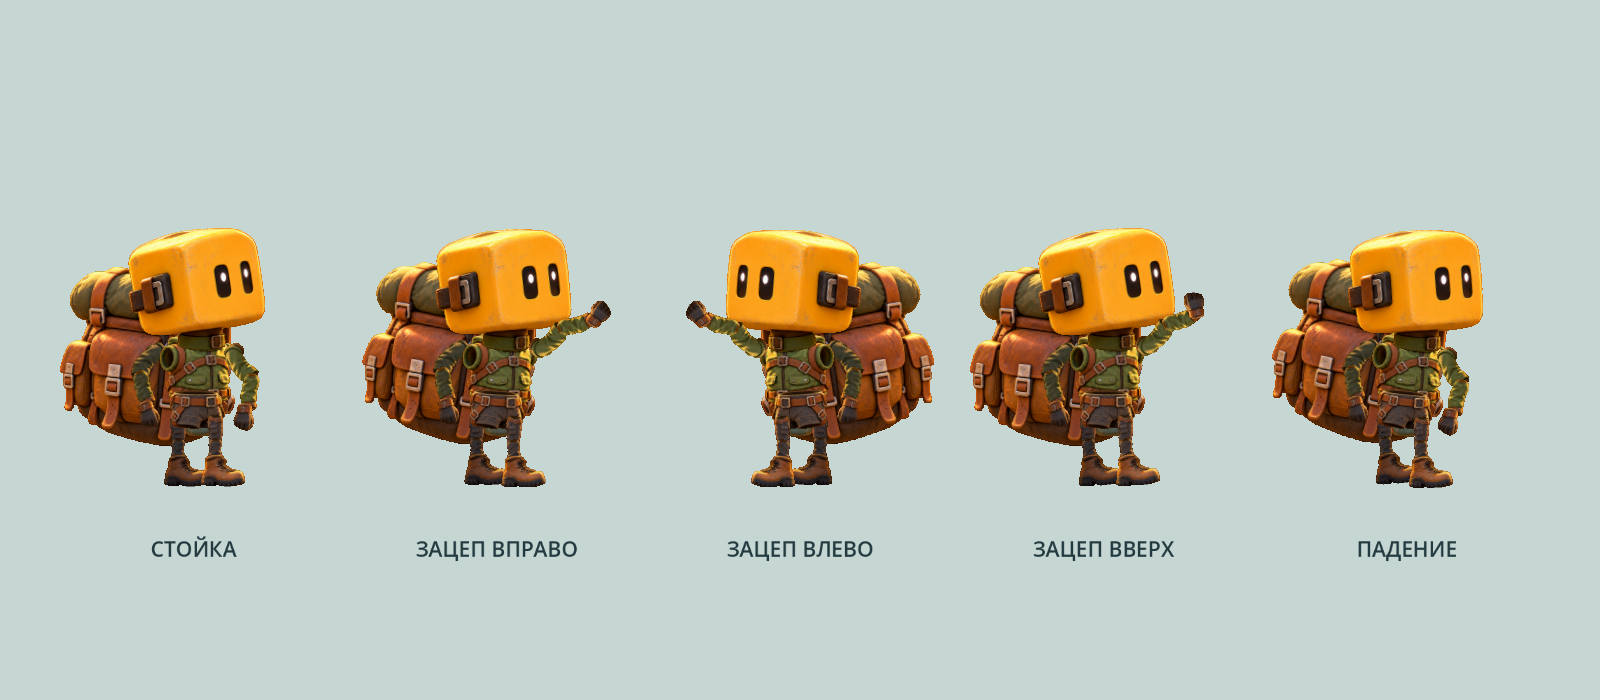
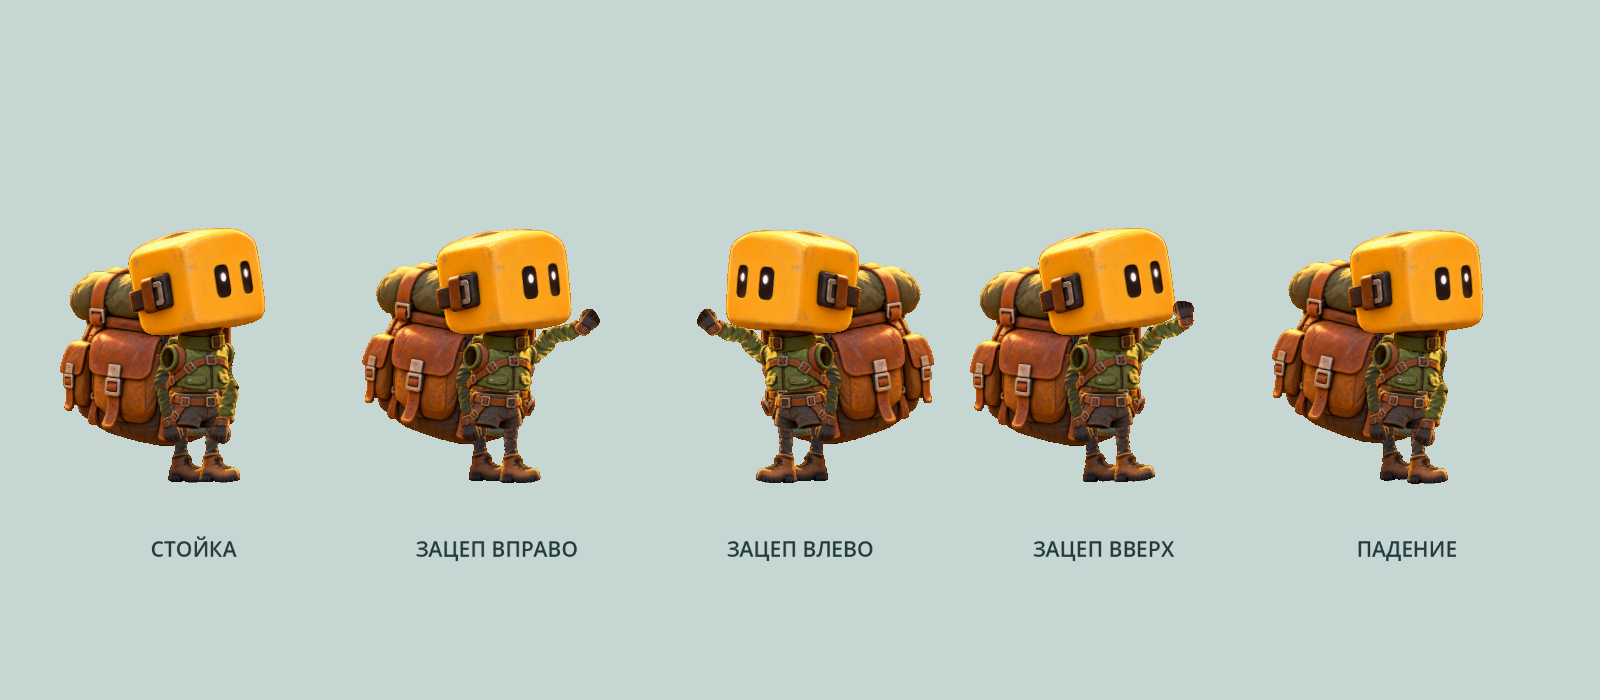
Embed limb roots in the body and fix idle stance

diff --git a/07_prototype_status.md b/07_prototype_status.md
@@ -1,6 +1,10 @@
-# Last Hook — статус версии 0.10.2
+# Last Hook — статус версии 0.10.3
 
 Дата: 9 октября 2026 года. Движок Godot 4.7.2, Windows x64 и Android ARM64.
+
+## Изменения 0.10.3
+
+Корни рук и ног привязаны к точкам на изображениях куртки и шорт и перекрываются непрозрачной частью корпуса. Верх рукавов и штанин расположен под одеждой; скрытая геометрия под текстурами закрывает просветы в суставах. Добавлены четыре проверки фактического перекрытия плеч и бёдер с непрозрачными пикселями и порядка слоёв. Отдельно проверено положение кистей под плечами в покое.
 
 ## Изменения 0.10.2
 
@@ -38,14 +42,14 @@
 
 ## Проверки и сборки
 
-**252 проверки прошли:** 63 правил, 103 интеграции, 32 генерации и 54 адаптации. Сборочный скрипт выполняет все четыре набора до экспорта.
+**257 проверок прошли:** 63 правил, 103 интеграции, 32 генерации и 59 адаптации. Сборочный скрипт выполняет все четыре набора до экспорта.
 
 - Покупки наконечников, точные цены, отказ при нехватке золота, предел три, загрузка и перенос старых профилей.
 - Реальное преимущество второго и третьего наконечника на близком промахе; попадание базовым крюком по льду и кристаллу.
 - Пять размеров окна: 486×864, 432×960, 800×800, 1280×800, 1600×720. Проверены заполнение окна, границы лобби, проекция прицела, клики после изменения размера, защита рюкзака от выстрела, пауза и число зубцов в полёте/на канате.
 - Полное восхождение ботом на трёх seed с базовым оснащением, а также со средним и максимальным. Поражение за экраном, одноразовые опоры и восстановление попыток проходят прежние проверки.
 - Визуально проверены портретное, вытянутое, квадратное и широкое окна, лобби, игровой экран и результат. Кадры из движка находятся в `docs/screenshots/`.
-- `Builds/Windows/LastHook.exe`: версия 0.10.2. `Builds/Android/LastHook-debug.apk`: версия 0.10.2, versionCode 12. APK выровнен, подписан прежним тестовым ключом и проверен сборочным скриптом.
+- `Builds/Windows/LastHook.exe`: версия 0.10.3. `Builds/Android/LastHook-debug.apk`: версия 0.10.3, versionCode 13. APK выровнен, подписан прежним тестовым ключом и проверен сборочным скриптом.
 
 Файлы отчётов — в `docs/validation/`. Локальные журналы и тестовые профили находятся в `artifacts/`, исключённом из Git.
 

diff --git a/docs/MODELS.md b/docs/MODELS.md
@@ -1,6 +1,6 @@
 # Персонаж, верёвка и крюк
 
-Версия 0.10.2 использует оригинальные изображения из `game/assets/art/modular-pack-v1/`. Исходный набор целиком хранится в Git; окружение из него пока не подменяет процедурную гору.
+Версия 0.10.3 использует оригинальные изображения из `game/assets/art/modular-pack-v1/`. Исходный набор целиком хранится в Git; окружение из него пока не подменяет процедурную гору.
 
 ## Персонаж
 
@@ -9,6 +9,8 @@
 Плечо → локоть → кисть и бедро → колено → стопа образуют цепочки суставов. Рука, держащая канат, использует решение двухзвенной цепи: локоть сгибается, кисть направлена к крюку. Дальняя рука балансирует движение. Ноги реагируют на скорость и состояние на земле. Разворот зеркалит весь риг, включая рюкзак. При моргании меняется текстура головы. Физика и коллайдер остаются прежними.
 
 В 0.10.2 исправлена сборка укороченных конечностей: изображение и смещение Sprite3D вращаются вокруг анатомического сустава, а расстояние между начальной и конечной точками картинки совпадает с длиной кости. Это устраняет смещения на локтях и коленях. Высота головы 0,54 единицы, торса 0,31; ботинки и корпус достаточно объёмны для компактного силуэта. При вертикальном зацепе рука остаётся сбоку от головы, кисть поворачивается к канату. Это проверяется отдельной регрессией. Наклон при раскачке ограничен, ноги в покое выровнены. Рюкзак со скаткой сопоставим с полным ростом персонажа.
+
+В 0.10.3 плечи и бёдра размещаются через UV-точки соответствующих изображений корпуса, с учётом масштаба Sprite3D. Корни находятся внутри непрозрачного рисунка и глубже корпуса. Предплечье выходит перед курткой; верх рукавов и штанин перекрыт одеждой. Капсулы под текстурами закрывают просветы у открытых краёв деталей, их передняя поверхность не выступает над рисунком. В покое кисти располагаются под плечами, а не разводятся в стороны; это проверяется отдельно. Четыре регрессии проверяют плечи и бёдра по альфа-каналу реальных изображений с запасом перекрытия.
 
 ## Канат
 

diff --git a/README.md b/README.md
@@ -2,7 +2,7 @@
 
 Игра для Android и Windows на Godot 4.7.2. Цепляйся крюком, раскачивайся и перелетай между опорами. Большинство опор исчезает после отцепления; проигрыш наступает, когда герой полностью падает ниже экрана.
 
-Текущая версия: **0.10.2**.
+Текущая версия: **0.10.3**.
 
 ## Играть
 
@@ -26,6 +26,11 @@
 | Удержать ячейку рюкзака | Выбросить предмет |
 
 На телефоне первый палец отвечает за прицел и раскачку. Второй палец: движение вверх/вниз меняет канат, короткий тап отпускает его.
+
+## Что изменилось в 0.10.3
+
+- Плечи и бёдра привязаны к точкам на рисунках куртки и шорт с перекрытием внутри корпуса.
+- Верх рукавов и штанин заведён под одежду; скрытая основа закрывает просветы между деталями конечностей.
 
 ## Что изменилось в 0.10.2
 
